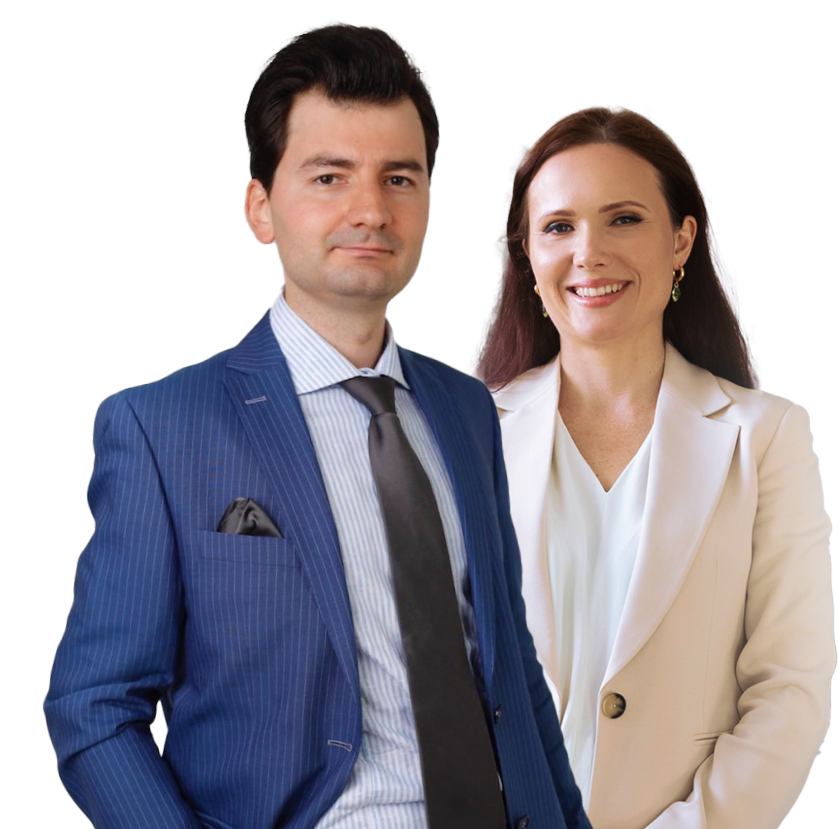
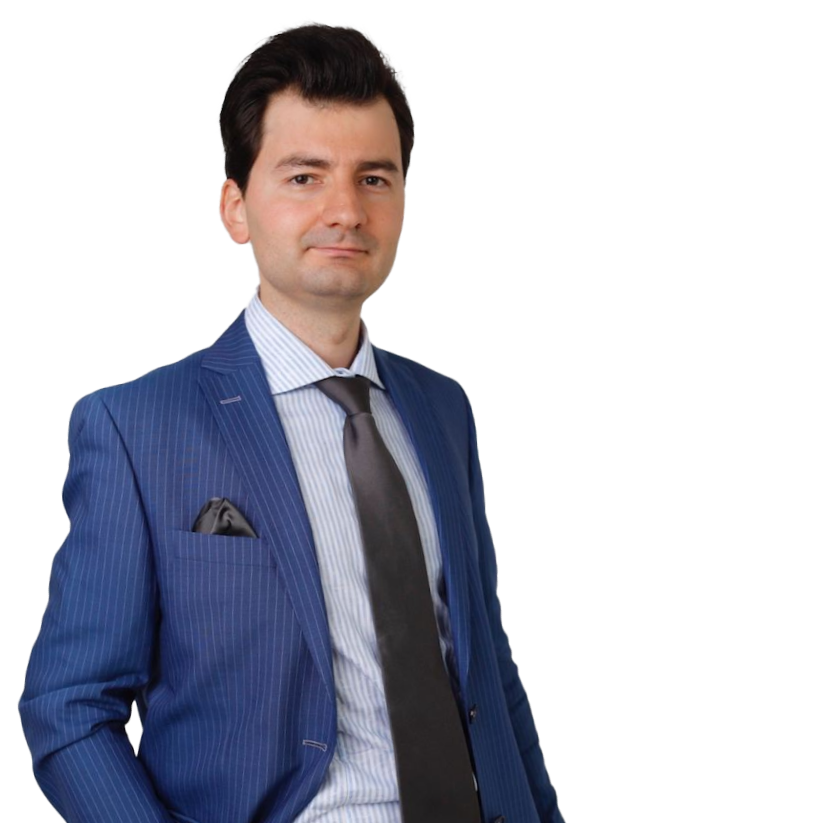
UPD: Замена контента по правкам

diff --git a/assets/build/css/main.css b/assets/build/css/main.css
@@ -368,6 +368,20 @@ a {
   width: 560px;
 }
 
+.lang-switcher {
+  position: fixed;
+  left: 2%;
+  bottom: 2%;
+  z-index: 10;
+  border-radius: 12px;
+  padding: 10px;
+  background-color: #fff;
+}
+.lang-switcher .gt_container-eu2ewk a.glink span {
+  font-size: max(14px, 0.8333333333vw);
+  color: #1c1c1c;
+}
+
 .header {
   position: absolute;
   left: 0;
@@ -3610,6 +3624,13 @@ a {
 .footer__socials-link {
   display: block;
   margin: 0 0.4166666667vw;
+}
+.footer__socials-email {
+  margin-left: max(20px, 1.8229166667vw);
+  font-weight: 600;
+  font-size: max(12px, 0.8333333333vw);
+  line-height: 140%;
+  color: #fff;
 }
 .footer__socials svg {
   width: max(30px, 1.8229166667vw);

diff --git a/assets/build/js/main.js b/assets/build/js/main.js
@@ -212,10 +212,10 @@ const validateForms = (selector, rules, url, nonce, action, afterSend) => {
     const telInput = intl_tel_input__WEBPACK_IMPORTED_MODULE_2___default()(telSelector, {
       utilsScript: _node_modules_intl_tel_input_build_js_utils__WEBPACK_IMPORTED_MODULE_3__,
       separateDialCode: true,
-      hiddenInput: "full"
+      hiddenInput: "full",
+      initialCountry: 'ae'
     });
     function getCodeMask(selector) {
-      console.log(selector);
       let country = selector.getSelectedCountryData();
       let countryData = countries_phone_masks__WEBPACK_IMPORTED_MODULE_4__.find(_ref => {
         let {

diff --git a/assets/src/js/components/form-validations.js b/assets/src/js/components/form-validations.js
@@ -22,11 +22,11 @@ const validateForms = (selector, rules, url, nonce, action, afterSend) => {
     const telInput = intlTelInput(telSelector, {
       utilsScript: utils,
       separateDialCode: true,
-      hiddenInput: "full"
+      hiddenInput: "full",
+      initialCountry: 'ae'
     })
 
     function getCodeMask(selector) {
-      console.log(selector);
       let country = selector.getSelectedCountryData();
       let countryData = countryList.find(({ iso }) => iso === country.iso2.toUpperCase());
       let countryMask = countryData.mask

diff --git a/assets/src/scss/components/_footer.scss b/assets/src/scss/components/_footer.scss
@@ -187,6 +187,14 @@
       margin: 0 get-vw(8px);
     }
 
+    &-email {
+      margin-left: max(20px, get-vw(35px));
+      font-weight: 600;
+      font-size: max(12px, get-vw(16px));
+      line-height: 140%;
+      color: #fff;
+    }
+
     svg {
       width: max(30px, get-vw(35px));
       height: max(30px, get-vw(35px));

diff --git a/assets/src/scss/_settings.scss b/assets/src/scss/_settings.scss
@@ -291,3 +291,18 @@ a {
   border-radius: 0;
   width: 560px;
 }
+
+.lang-switcher {
+  position: fixed;
+  left: 2%;
+  bottom: 2%;
+  z-index: 10;
+  border-radius: 12px;
+  padding: 10px;
+  background-color: #fff;
+
+  .gt_container-eu2ewk a.glink span {
+    font-size: max(14px, get-vw(16px));
+    color: #1c1c1c;
+  }
+}

diff --git a/templates/parts/footer/footer.php b/templates/parts/footer/footer.php
@@ -54,6 +54,7 @@
               fill="white" />
           </svg>
         </a>
+        <a class="footer__socials-email" href="mailto:info@taxu.ae">info@taxu.ae</a>
       </div>
     </div>
 
@@ -97,11 +98,6 @@
       <div class="footer__contacts">
         <div class="footer__top-text">We are working now, call</div>
         <div class="footer__phone">
-          <img loading="lazy" src="<?= ct()->get_assets_url() ?>/img/ru-flag.png" class="footer__phone-flag" width="30"
-            height="15" alt="">
-          <a class="footer__phone-link" href="tel:+7 (995) 055 22-35">+7 (995) 055 22-35</a>
-        </div>
-        <div class="footer__phone">
           <img loading="lazy" src="<?= ct()->get_assets_url() ?>/img/dub-flag.png" class="footer__phone-flag" width="30"
             height="15" alt="">
           <a class="footer__phone-link" href="tel:+ 971 (58) 547-22-35">+ 971 (58) 547-22-35</a>
@@ -139,11 +135,14 @@
       </div>
     </div>
 
-    <div class="footer__reserved">Все права защищены</div>
+    <div class="footer__reserved">All rights reserved</div>
 
-    <a class="footer__terms" href="#">Политика конфиденциальности</a>
+    <a class="footer__terms" href="#">Privacy Policy</a>
   </div>
 </footer>
+<div class="lang-switcher">
+<?php echo do_shortcode('[gtranslate]') ?>
+</div>
 <?php ct()->template('/parts/modals/modals-section.php') ?>
 <?php wp_footer() ?>
 </div>

diff --git a/templates/parts/header/header.php b/templates/parts/header/header.php
@@ -35,7 +35,7 @@
             </div>
           </div>
 
-          <a class="header__link link-default" href="#">Calculate the cost</a>
+          <a class="header__link link-default" href="<?= get_home_url() ?>/#quiz">Calculate the cost</a>
 
           <div class="header__socials">
             <div class="header__socials-text">Ask a question, <br><span>we are online</span></div>
@@ -60,10 +60,6 @@
 
           <div class="header__contacts">
             <div class="header__top-text">We are working now, call</div>
-            <div class="header__phone">
-              <img loading="lazy" src="<?= ct()->get_assets_url() ?>/img/ru-flag.png" class="header__phone-flag" width="30" height="15" alt="">
-              <a class="header__phone-link" href="tel:+7 (995) 055 22-35">+7 (995) 055 22-35</a>
-            </div>
             <div class="header__phone">
               <img loading="lazy" src="<?= ct()->get_assets_url() ?>/img/dub-flag.png" class="header__phone-flag" width="30" height="15" alt="">
               <a class="header__phone-link" href="tel:+ 971 (58) 547-22-35">+ 971 (58) 547-22-35</a>

diff --git a/templates/front-page/parts/advantages-section.php b/templates/front-page/parts/advantages-section.php
@@ -38,7 +38,7 @@
               developed transport network and perfectly streamlined logistics chains.</div>
           </div>
         </div>
-        <a class="advantages__button btn--main" href="#callback">More benefits
+        <a class="advantages__button btn--main" href="#guide">More benefits
           <svg
             xmlns="http://www.w3.org/2000/svg" width="29" height="29" viewBox="0 0 29 29" fill="none">
             <path d="M26.3582 12.7588L1.3584 12.7588L1.3584 15.4762L26.3582 15.4762L26.3582 12.7588Z" fill="white" />
@@ -55,7 +55,7 @@
           <div class="advantages__callback-info">
             <div class="advantages__callback-name">Roman Bykov</div>
             <div class="advantages__callback-role">CCO</div>
-            <button class="btn-reset advantages__callback-button btn--main" data-graph-path="callback-modal">Ask a question</button>
+            <a class="btn-reset advantages__callback-button btn--main" href="https://wa.me/+971585472235" target="_blank">Ask a question</a>
           </div>
         </div>
       </div>

diff --git a/templates/front-page/parts/hero-section.php b/templates/front-page/parts/hero-section.php
@@ -10,7 +10,7 @@
 
       </div>
       <div class="hero__footer">
-        <button class="hero__button btn-reset btn--main">
+        <a class="hero__button btn-reset btn--main" href="#quiz">
           Calculate the cost of service
           <svg xmlns="http://www.w3.org/2000/svg" width="29" height="29" viewBox="0 0 29 29" fill="none">
             <path d="M26.3582 12.7588L1.3584 12.7588L1.3584 15.4762L26.3582 15.4762L26.3582 12.7588Z" fill="white" />
@@ -18,7 +18,7 @@
               d="M21.5898 20.8462L19.6684 18.9247L24.4336 14.1594L19.6684 9.39414L21.5898 7.47266L28.2766 14.1594L21.5898 20.8462Z"
               fill="white" />
           </svg>
-        </button>
+        </a>
         <div class="hero__small-text">
           Get a free guide after calculating <span>“How to open your business in the UAE”</span></div>
       </div>

diff --git a/templates/front-page/parts/steps-section.php b/templates/front-page/parts/steps-section.php
@@ -22,8 +22,8 @@
               <span class="step__number">1 step</span>
               <div class="step__text"><span>Free preliminary consultation</span> from our specialist immediately upon
                 application</div>
-              <button class="btn-reset step__button btn btn--main" data-graph-path="callback-modal">Get a
-                consultation</button>
+              <a class="btn-reset step__button btn btn--main" href="#callback-section">Get a
+                consultation</a>
             </div>
           </div>
           <div class="swiper-slide steps__slider-item">

diff --git a/templates/front-page/parts/quiz-section.php b/templates/front-page/parts/quiz-section.php
@@ -1,4 +1,4 @@
-<section class="quiz">
+<section class="quiz" id="quiz">
   <div class="quiz__container content-container">
   <iframe id="marquiz__inline-frame_650d95232a0e530025b8e0ac" class="marquiz__inline-frame" src="//quiz.marquiz.ru/650d95232a0e530025b8e0ac?href=https%3A%2F%2Ftaxtva.com%2F&amp;mode=inline&amp;referrer=https%3A%2F%2Ftaxtva.com%2Fopen_company_free" scrolling="auto" frameborder="0" allow="autoplay" style="width: 100%; height: auto; aspect-ratio: 16/9;"></iframe>
   </div>

diff --git a/templates/front-page/front-page.php b/templates/front-page/front-page.php
@@ -9,7 +9,6 @@
 <?php ct()->template('/front-page/parts/services-section.php') ?>
 <?php ct()->template('/front-page/parts/quiz-section.php') ?>
 <?php ct()->template('/front-page/parts/advantages-section.php') ?>
-<?php ct()->template('/front-page/parts/flags-section.php') ?>
 <?php ct()->template('/front-page/parts/steps-section.php') ?>
 <?php ct()->template('/front-page/parts/form-section.php') ?>
 <?php ct()->template('/front-page/parts/map-section.php') ?>
